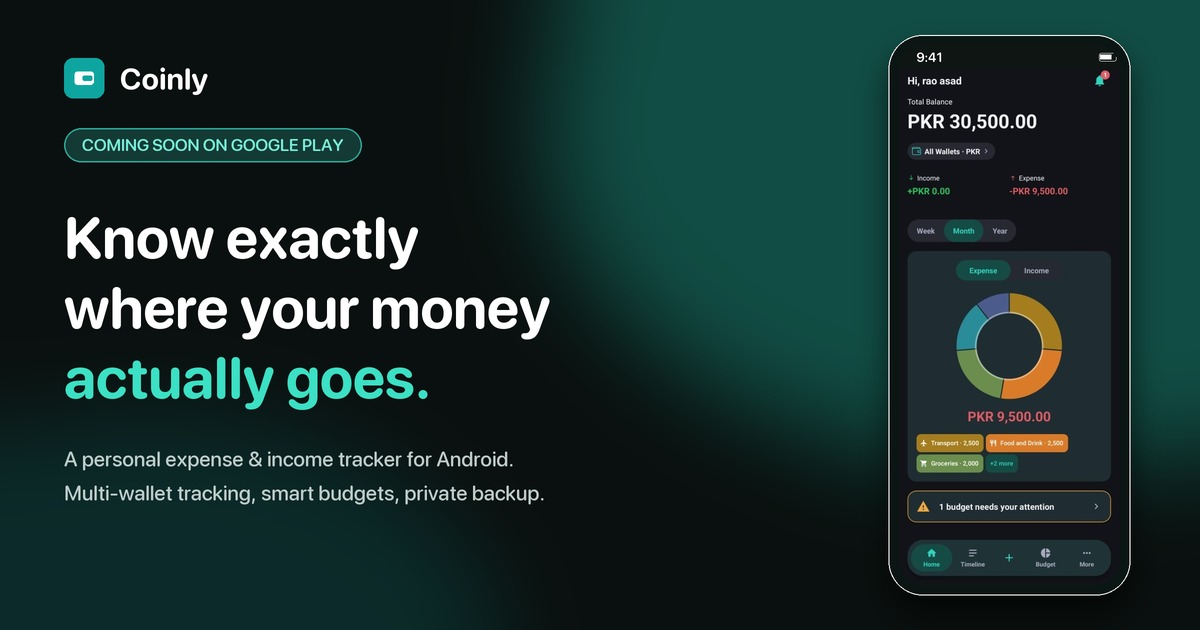
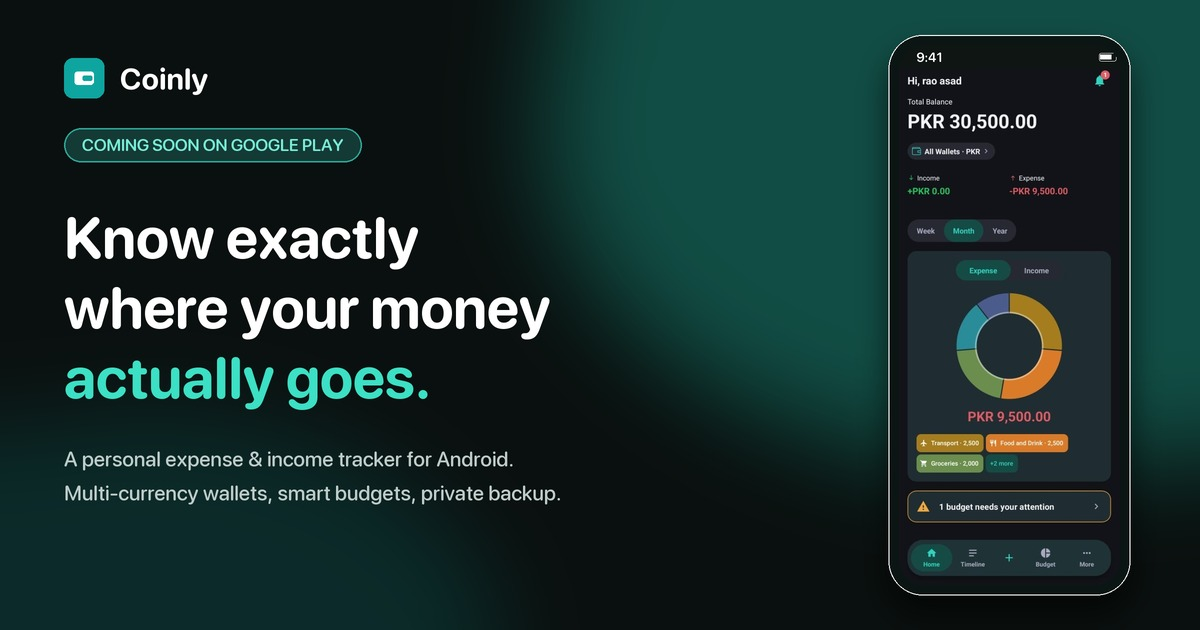
Update copy for multi-currency wallets and fix stale budget claim
The app README revealed two things the site's copy didn't reflect:

- Multi-currency wallets + a Base Currency with daily-refreshed live
  exchange rates is now a real, shipped feature - not mentioned anywhere
  on the site. Added it to the hero subhead, meta/OG/Twitter/JSON-LD
  descriptions, and two new FAQ answers (multi-currency detail +
  "where do exchange rates come from").
- The site claimed a budget could be scoped to "one wallet or all of
  them," but the app's design deliberately removed the all-wallets
  option (a budget always belongs to exactly one wallet now, so its
  progress never blends currencies). Fixed in the Budgets feature copy
  and the matching FAQ answer.

Also refreshed the OG image's subtext to match ("Multi-currency wallets"
instead of "Multi-wallet tracking").

Changed region(s): [[0.0925, 0.754, 0.4625, 0.8143]]

diff --git a/index.html b/index.html
@@ -4,7 +4,7 @@
 <meta charset="UTF-8">
 <meta name="viewport" content="width=device-width, initial-scale=1.0">
 <title>Coinly — Track Your Spending, Simply | Expense &amp; Income Tracker for Android</title>
-<meta name="description" content="Coinly is a personal expense &amp; income tracker for Android. Track spending across multiple wallets, set smart shared-category budgets, back up privately to your own Google Drive, and finally see where your money goes.">
+<meta name="description" content="Coinly is a personal expense &amp; income tracker for Android. Multi-currency wallets converted automatically into one Base Currency, smart shared-category budgets, and private Google Drive backup.">
 <meta name="keywords" content="expense tracker, budget app, income tracker, personal finance app, Android expense tracker, budget tracker, money management app, Coinly">
 <meta name="author" content="Coinly">
 <meta name="robots" content="index, follow">
@@ -13,7 +13,7 @@
 <link rel="canonical" href="https://coinly-web.vercel.app/">
 
 <meta property="og:title" content="Coinly — Track Your Spending, Simply">
-<meta property="og:description" content="Multi-wallet tracking, smart shared-category budgets, and private Google Drive backup for Android.">
+<meta property="og:description" content="Multi-currency wallets converted into one Base Currency, smart shared-category budgets, and private Google Drive backup for Android.">
 <meta property="og:type" content="website">
 <meta property="og:url" content="https://coinly-web.vercel.app/">
 <meta property="og:site_name" content="Coinly">
@@ -25,7 +25,7 @@
 
 <meta name="twitter:card" content="summary_large_image">
 <meta name="twitter:title" content="Coinly — Track Your Spending, Simply">
-<meta name="twitter:description" content="Multi-wallet tracking, smart shared-category budgets, and private Google Drive backup for Android.">
+<meta name="twitter:description" content="Multi-currency wallets converted into one Base Currency, smart shared-category budgets, and private Google Drive backup for Android.">
 <meta name="twitter:image" content="https://coinly-web.vercel.app/assets/og-image.jpg">
 
 <link rel="icon" href="assets/favicon.svg" type="image/svg+xml">
@@ -43,7 +43,7 @@
   "name": "Coinly",
   "operatingSystem": "Android",
   "applicationCategory": "FinanceApplication",
-  "description": "A personal expense & income tracker for Android with multi-wallet tracking, shared-category budgets, and private Google Drive backup.",
+  "description": "A personal expense & income tracker for Android with multi-currency wallets converted into one Base Currency, shared-category budgets, and private Google Drive backup.",
   "offers": {
     "@type": "Offer",
     "price": "0",
@@ -113,8 +113,9 @@
       <h1>Know exactly<br>where your money<br><span class="text-gradient">actually goes.</span></h1>
       <p class="hero-sub">
         Coinly is a personal expense &amp; income tracker for Android. Track spending across
-        multiple wallets, set budgets that warn you before you go over, back everything up to
-        your own Google Drive — and finally see the full picture.
+        multiple wallets — each in its own currency — set budgets that warn you before you go
+        over, and see it all converted into one currency on your dashboard, backed up privately
+        to your own Google Drive.
       </p>
       <div class="hero-actions">
         <a href="#cta" class="btn btn-dark btn-lg">
@@ -225,7 +226,8 @@
           <span class="feature-num">02</span>
           <h3>Budgets that watch a pool of categories</h3>
           <p>A Coinly budget isn't tied to one category — group Entertainment + Dining into a
-            single "Discretionary" pool, weekly or monthly, scoped to one wallet or all of them.</p>
+            single "Discretionary" pool, weekly or monthly, always scoped to one wallet so its
+            progress is never blended across currencies.</p>
           <ul class="feature-points">
             <li>Live progress hint while you're still adding the transaction</li>
             <li>Tap any budget card to expand its per-category breakdown in place</li>
@@ -424,14 +426,21 @@
           <span>Can I use multiple currencies or wallets?</span>
           <span class="faq-icon">+</span>
         </button>
-        <div class="faq-a"><p>Yes. Create as many wallets as you need — cash, bank, savings, whatever fits how you actually spend — each with its own starting balance and currency.</p></div>
+        <div class="faq-a"><p>Yes — each wallet has its own currency, chosen once and locked forever so it never gets mixed up with old transactions or budgets. Set a Base Currency anytime, and Coinly converts everything into it automatically using daily-refreshed real exchange rates whenever you view "All Wallets." Look at a single wallet on its own and it always stays in its native currency, unconverted.</p></div>
+      </div>
+      <div class="faq-item reveal">
+        <button class="faq-q">
+          <span>Where do the exchange rates come from?</span>
+          <span class="faq-icon">+</span>
+        </button>
+        <div class="faq-a"><p>Real rates, refreshed daily and cached on your device — no manual entry, no guessing. Changing your Base Currency later never breaks old conversions, since the cache is anchored independently of whatever currency you're reporting in.</p></div>
       </div>
       <div class="faq-item reveal">
         <button class="faq-q">
           <span>What does a "budget" mean in Coinly?</span>
           <span class="faq-icon">+</span>
         </button>
-        <div class="faq-a"><p>A budget watches one or more categories combined into a shared pool — for example "Discretionary" = Entertainment + Dining — weekly or monthly, optionally scoped to a single wallet.</p></div>
+        <div class="faq-a"><p>A budget watches one or more categories combined into a shared pool — for example "Discretionary" = Entertainment + Dining — weekly or monthly, always scoped to exactly one wallet, in that wallet's own currency.</p></div>
       </div>
       <div class="faq-item reveal">
         <button class="faq-q">
